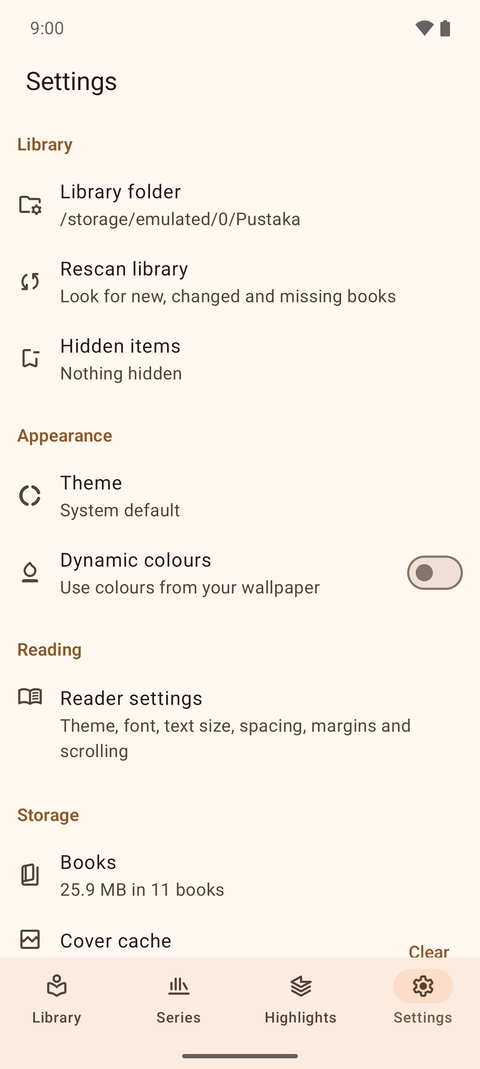
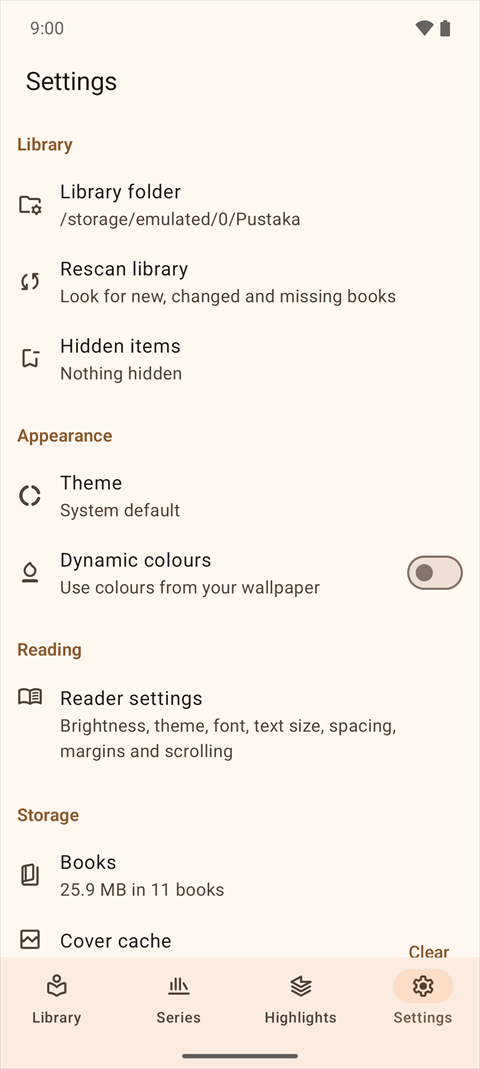
chore: wrap up 1.2.0
- Version 1.2.0 (version code 3).
- Release notes in docs/releases/1.2.0.md, and the README's status line
  points to them.
- Screenshot check: settings.png retaken, since Reader settings now
  mentions Brightness. The other screenshots still match the app.
- ROADMAP records the wrap-up.

Changed region(s): [[0.125, 0.6483, 0.8438, 0.71]]

diff --git a/docs/releases/1.2.0.md b/docs/releases/1.2.0.md
@@ -1,0 +1,47 @@
+# Pustaka 1.2.0
+
+Illustrations you can open full screen and zoom into, bookmarks next to your highlights, "Continue reading" on Series Details, a Dark grey reader theme, the reader's own brightness, and see-through reader bars.
+
+## Installing
+
+Download `Pustaka-1.2.0.apk` below and open it on your phone.
+- **Updating from 1.0.0 or 1.1.0:** install it over the old version. Your library, progress, highlights, bookmarks and edits are kept.
+- **New install:** see the [1.0.0 release notes](https://github.com/naqibrafiqi/pustaka/releases/tag/v1.0.0) for the first steps.
+
+Requires Android 10 or newer.
+
+## What's new
+
+**Illustrations** ([#50](https://github.com/naqibrafiqi/pustaka/issues/50))
+- A long press on a picture in a book opens it full screen. Pinch or double-tap to zoom in, and drag to move around. Back or the close button returns to the same page.
+- When the book has the picture at more than one size, the largest is opened. Line drawings on a see-through background are shown on white, as they are on the page.
+- A long press on text still selects it, even right next to a picture.
+- Pictures that stand on their own lines are centred on the page.
+
+**Bookmarks in the Highlights tab** ([#51](https://github.com/naqibrafiqi/pustaka/issues/51))
+- The Highlights tab has two tabs you can swipe between: Highlights and Bookmarks, each with its count.
+- Bookmarks are grouped by series and book, with the chapter, the start of the page and the page number. Tap one to open the reader there, or remove it with its button.
+- Search looks through both. Export is still for highlights.
+
+**Continue reading on Series Details** ([#52](https://github.com/naqibrafiqi/pustaka/issues/52))
+- A "Continue reading" button opens the same volume as the series card's button. It's hidden once every volume is finished.
+
+**Reader**
+- **Dark grey theme** ([#55](https://github.com/naqibrafiqi/pustaka/issues/55)): light grey text on a dark grey page, with dark grey bars and sheets. Themes are now picked from a row of swatches that show each theme's colours. Auto still follows the app's light or dark theme.
+- **Brightness** ([#54](https://github.com/naqibrafiqi/pustaka/issues/54)): a Brightness slider in reader settings, and in Settings > Reader settings. The reader keeps that brightness, so auto-brightness doesn't change it while you read. The first time, it starts at your phone's brightness. Your phone's own brightness comes back as soon as you leave the reader.
+- **Screen stays on** ([#54](https://github.com/naqibrafiqi/pustaka/issues/54)) while you're reading, until no page has been turned for 5 minutes.
+- **See-through bars** ([#53](https://github.com/naqibrafiqi/pustaka/issues/53)): the top and bottom bars let the page show through a little.
+
+**Tablets** ([#56](https://github.com/naqibrafiqi/pustaka/issues/56))
+- The tabs in the rail down the left side are centred instead of starting at the top.
+
+## Fixes
+- Screen readers now announce the "New series" button on the Series tab. Its label was hidden from them.
+
+## Known limitations
+- English only.
+- EPUB only. Books protected with DRM can't be opened.
+- Only internal storage can be used for the library folder, not SD cards or cloud folders.
+- No sync between devices.
+- Drawings made in SVG itself, rather than a picture file, can't be opened full screen.
+- The page-flip animation ([#36](https://github.com/naqibrafiqi/pustaka/issues/36)) is still set aside for a later version.

diff --git a/docs/ROADMAP.md b/docs/ROADMAP.md
@@ -260,6 +260,8 @@ Work from the GitHub issues filed on 2026-11-18, [#50](https://github.com/naqibr
 **Done when:** every issue above is fixed on `1.2.0`, or deliberately set aside with your agreement, and the README describes and shows what's in 1.2.0.
 
 **Wrapping up 1.2.0:** on branch `release-1.2.0`, from `1.2.0`: version 1.2.0 (version code 3), the release notes in `releases/1.2.0.md`, the README's status line pointing to them, and a last check that every screenshot matches the app.
+- Version 1.2.0 (version code 3) and the [release notes](releases/1.2.0.md), with the README's status line pointing to them.
+- Screenshot check: the screenshots Phase 9 didn't retake (`library.png`, `series.png`, `book-details-dark.png` and `settings.png`) were compared with what changed in the app since 1.1.0. Only `settings.png` was out of date: Reader settings now starts its description with "Brightness". It's retaken, the same way as before. The other screens look the same as in 1.1.0.
 
 ---
 
@@ -286,4 +288,4 @@ Work from the GitHub issues filed on 2026-11-18, [#50](https://github.com/naqibr
 | 6. Settings, search and sorting | Done |
 | 7. Polish and release | Done. 1.0.0 was published on 2026-11-15 (D22), following [RELEASING.md](RELEASING.md). |
 | 8. Fixes and improvements after 1.0 | Done, for 1.1.0. Parts 1 (#31 to #34), 2 (#38), 3 (#35), 4 (#37) and 5 (#39) are merged. Part 6 (#36, page flip) is set aside for a later version (D28). The 1.1.0 wrap-up (version, icon, screenshots, release notes) is merged. 1.1.0 was published on 2026-11-17. |
-| 9. Improvements after 1.1 | In progress, for 1.2.0. The plan and D30 to D35 are approved. Part 1 (#53 to #56) is merged, with D36. Part 2 (#51, #52) is merged. Part 3 (#50) is merged. Next: the 1.2.0 wrap-up. |
+| 9. Improvements after 1.1 | In progress, for 1.2.0. The plan and D30 to D35 are approved. Part 1 (#53 to #56) is merged, with D36. Part 2 (#51, #52) is merged. Part 3 (#50) is merged. The 1.2.0 wrap-up (version, release notes, screenshot check) is in review. |

diff --git a/README.md b/README.md
@@ -6,7 +6,7 @@ Pustaka is an offline EPUB reader for Android, built for books that come in seri
 
 You keep your EPUB files in a `Pustaka` folder on your phone, either loose or in one subfolder per series. Pustaka scans that folder, reads each book's details from the EPUB itself, and keeps track of your reading progress and highlights. It never renames or moves your files.
 
-> **Status:** version 1.1.0. See the [release notes](docs/releases/1.1.0.md) and the [roadmap](docs/ROADMAP.md).
+> **Status:** version 1.2.0. See the [release notes](docs/releases/1.2.0.md) and the [roadmap](docs/ROADMAP.md).
 
 ## Screenshots
 <table>
